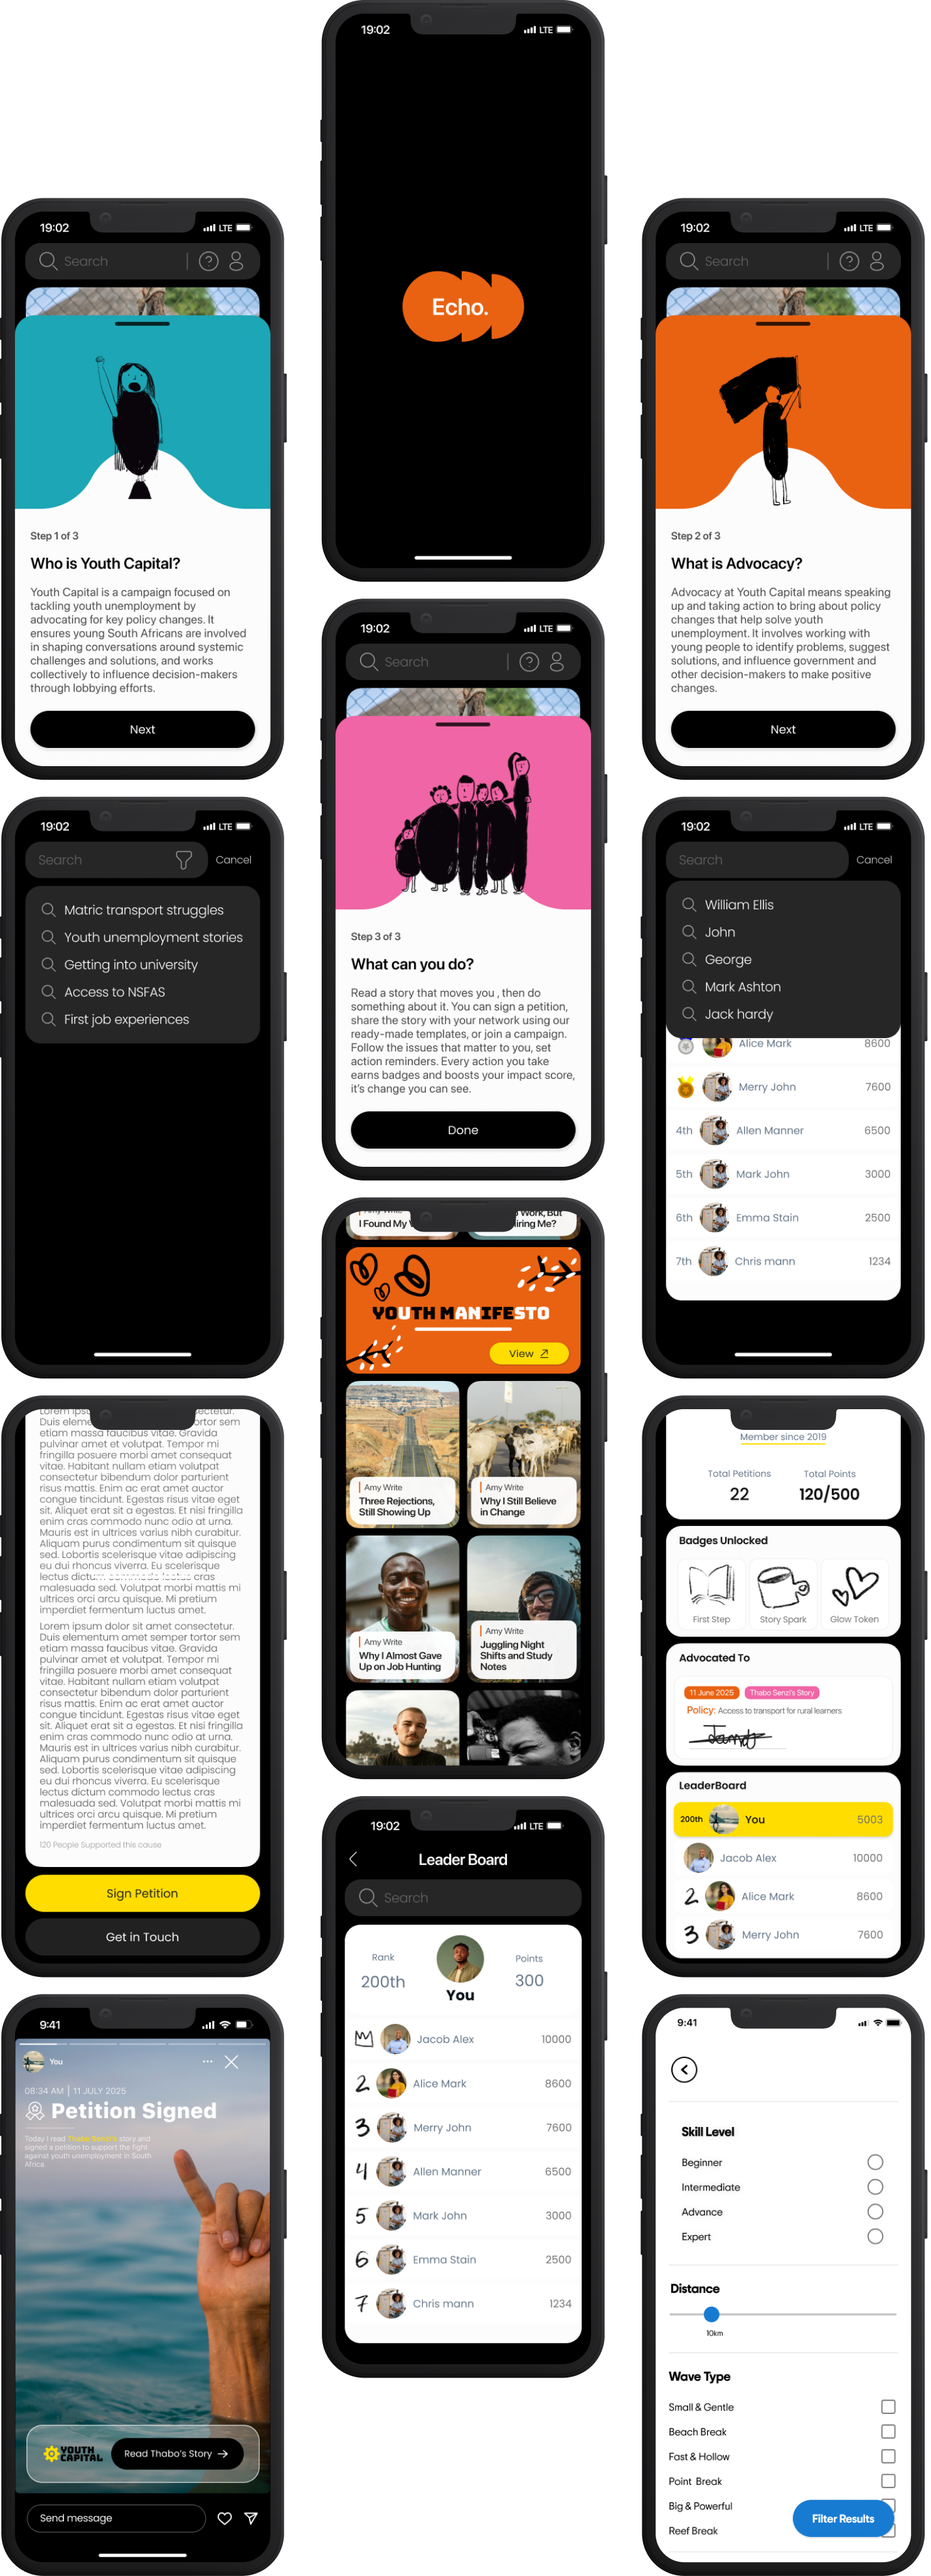
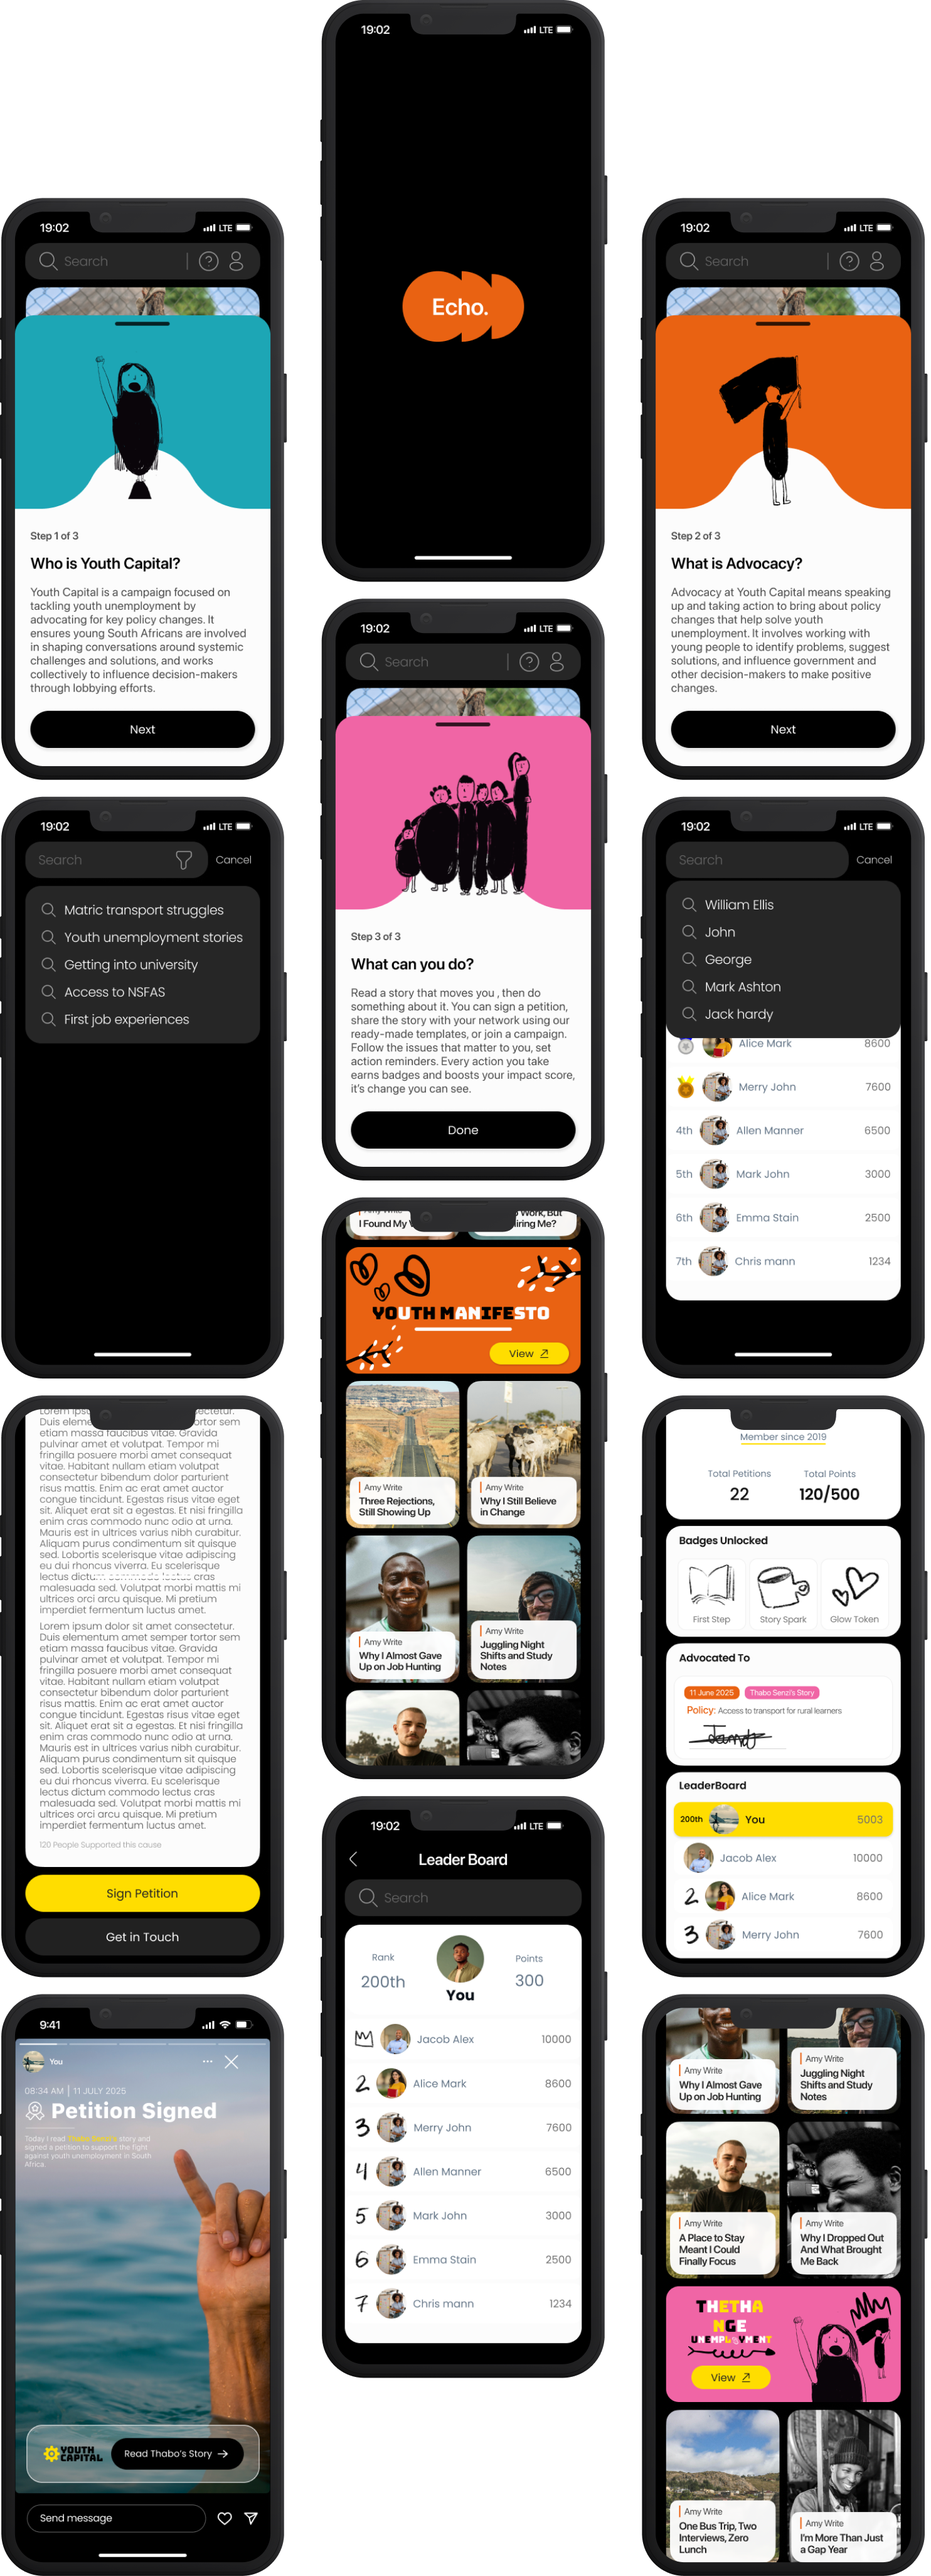
fixed the img

Changed region(s): [[0.6819, 0.7801, 0.9919, 0.9985]]

diff --git a/projects/projects_school/echo/index.html b/projects/projects_school/echo/index.html
@@ -459,8 +459,14 @@
 <section class="content-section" id="reflection" data-nav-label="Reflection">
         <h3 class="content-heading">07 — Reflection</h3>
         <h2 class="content-title">What did I learn?</h2>
-        <p class="content-body">The project changed quite a bit over the course of working with Youth Capital. Having a real client rather than a self-directed brief taught me things a hypothetical user base couldn't — designing against an actual organisation's expectations, not just a persona I'd written myself, shaped the direction more than I expected going in.</p>
-    <p class="content-body">If I had more time, I'd put it into the badge system. The gamification layer — points, badges, the leaderboard — is there conceptually, but the badges themselves don't yet match the rest of the product's visual style as closely as they should, and the gamification mechanics deserve more depth than a surface-level reward: what a badge actually represents, and how progression feels over repeated use, rather than just a one-off unlock.</p>
+        <p class="content-body">The project changed quite a bit over the course of working with Youth Capital. 
+            Having a real client rather than a self-directed brief taught me things a hypothetical user base couldn't — 
+            designing against an actual organisation's expectations, 
+            not just a persona I'd written myself, shaped the direction more than I expected going in.</p>
+    <p class="content-body">If I had more time, I'd put it into the badge system. The gamification layer — points, 
+        badges, the leaderboard — is there conceptually, but the badges themselves don't yet match the rest of the 
+        product's visual style as closely as they should, and the gamification mechanics deserve more depth than a surface-level reward: 
+        what a badge actually represents, and how progression feels over repeated use, rather than just a one-off unlock.</p>
 </section>
 
 </main>
